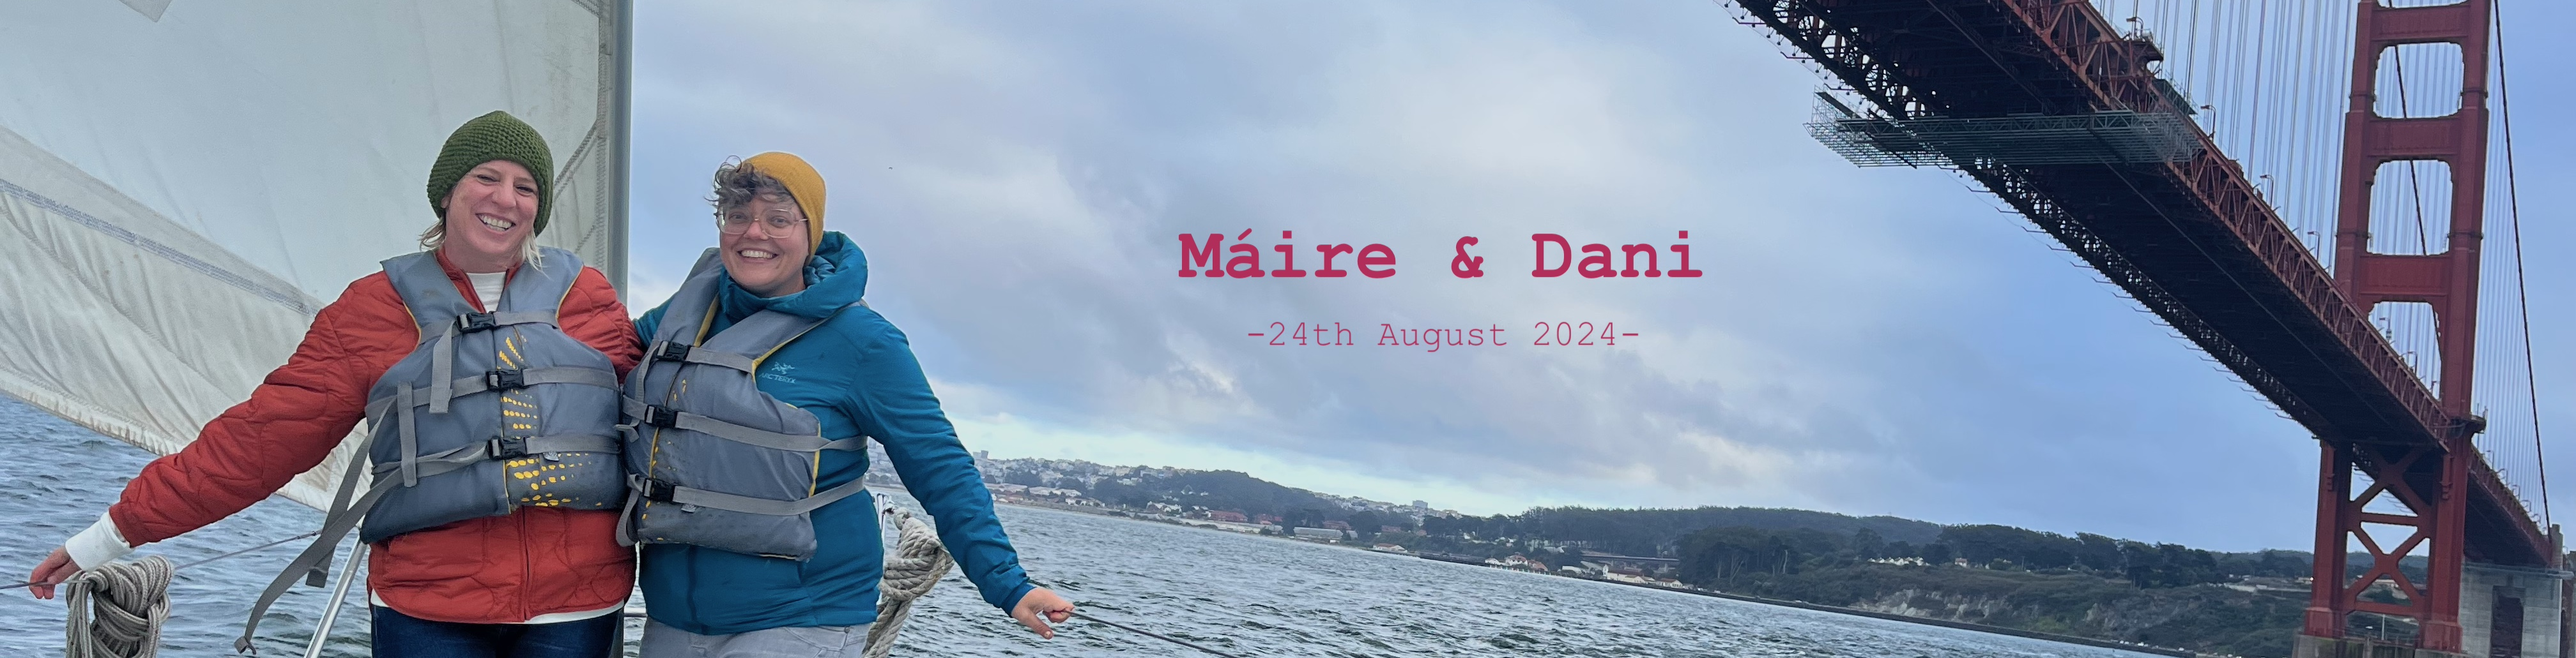
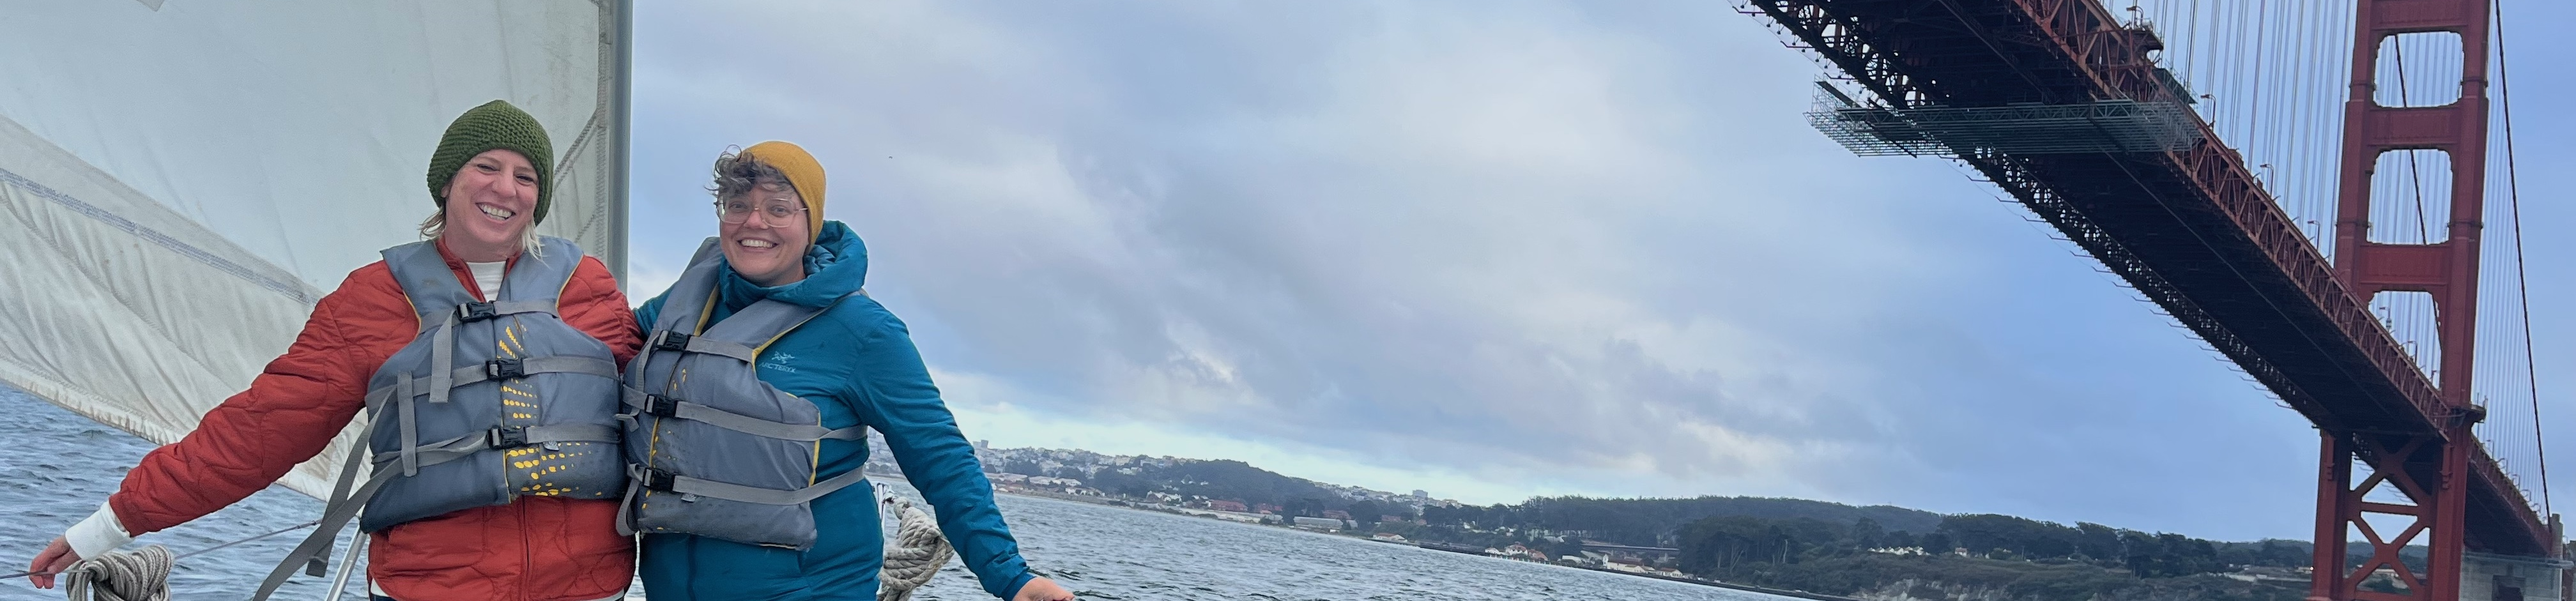
about

diff --git a/about.html b/about.html
@@ -27,35 +27,24 @@
    <div class="container">
    <div class="blurb">
 
+
    	<h2><center>Schedule of Events</h2></center>
 
-
    	<p align="justify"> We are celebrating at Branch House in Calistoga, CA on Saturday August 24, 2024. Located on Diamond Mountain, the venue overlooks Napa Valley and is surrounded by some of the world's finest vineyards. This picturesque setting provides a breathtaking backdrop for our special day.</p>
-
 			
-      <h3><center>Shuttles - starting 1:30pm</h3></center>
+ 
+      <p align="justify"> <b> &#128652 Shuttles - starting 1:30pm</b> <br>We will have buses bringing people to Branch House from Santa Rosa and Calistoga. Buses will depart from Santa Rosa at the Flamingo Resort. In Calistoga the shuttles will pick up at Cal Mart. Please let us know in your RSVP if you are planning getting on the bus either in Santa Rosa or Calistoga so we can assign you a seat and departure time. There is no parking at the venue directly, however, you can have a rideshare drop you off.</p>
 
-      <p align="justify"> We will have buses bringing people to Branch House from Santa Rosa and Calistoga. Buses will depart from Santa Rosa at the Flamingo Resort. In Calistoga the shuttles will pick up at Cal Mart. Please let us know in your RSVP if you are planning getting on the bus either in Santa Rosa or Calistoga so we can assign you a seat and departure time. There is no parking at the venue directly, however, you can have a rideshare drop you off.</p>
+      <p align="justify"> <b> &#127903 Welcome - starting at 2pm</b> <br>Enjoy the time at Branch House, catch up with friends and make new friends while everyone is getting in. We'll have some music and refreshing beverages for you while you enjoy the views and take pictures.</p>
 
-      <h3><center>Welcome Drinks - starting at 2pm</h3></center>
+      <p align="justify"> <b> &#128081 Ceremony - 3:00 to 3:30pm</b> <br>The ceremony will be taking place in a little theater in the woods. It is only a short walk to get there. There is no reserved seating, you sit anywhere you want. Our dear friend Franco will lead us through a ceremony that celebrates our love and commitment to each other. Join us as we exchange vows and begin our new chapter together - we can't wait to share this special moment with you!</p>
 
-      <p align="justify"> Enjoy the time at Branch House with some welcome drinks and catch up with friends and make new friends while everyone is getting in. We'll have some music for you while you enjoy the views and take pictures.</p>
-
-      <h3><center>Ceremony - 3:00 to 3:30pm</h3></center>
-
-      <p align="justify"> The ceremony will be taking place in a little theater in the woods. It is only a short walk to get there. There is no reserved seating, you sit anywhere you want. Our dear friend Franco will lead us through a ceremony that celebrates our love and commitment to each other. Join us as we exchange vows and begin our new chapter together - we can't wait to share this special moment with you!</p>
-
-      <h3><center>Cocktail Hour - 3:30 to 5:00pm</h3></center>
-
-      <p align="justify"> Join us for a relaxing and social hour of mingling, sipping, and savoring! Our cocktail hour will feature refreshing drinks, delectable appetizers, and easy listening tunes to set the tone for a wonderful evening. Take a stroll around the grounds, catch up with old friends, or make some new ones. Feel free to challenge your friends to a game of giant Jenga - we'll provide the yard games and the fun! This is the perfect opportunity to unwind and enjoy the company of loved ones before the main celebration begins. Cheers!</p>    
+      <p align="justify"> <b> &#127864 Cocktail Hour - 3:30 to 5:00pm</b> <br>Join us for a relaxing and social hour of mingling, sipping, and savoring! Our cocktail hour will feature refreshing drinks, delectable appetizers, and easy listening tunes to set the tone for a wonderful evening. Take a stroll around the grounds, catch up with old friends, or make some new ones. Feel free to challenge your friends to a game of giant Jenga - we'll provide the yard games and the fun! This is the perfect opportunity to unwind and enjoy the company of loved ones before the main celebration begins. Cheers!</p>    
       
-      <h3><center>Reception - 5:00 to 10:30pm</h3></center>
-
-      <p align="justify"> Our reception will feature a sit-down dinner, prepared by local vendors, offering a diverse range of culinary delights to cater to every taste. The perfect accompaniment to your meal will be a selection of wines from the area. As the night unfolds, we'll open the dance floor, inviting you to let loose and celebrate with us under the stars. Get ready for an evening of joy, laughter, and unforgettable memories!</p>    
+      <p align="justify"> <b> &#127881 Reception - 5:00 to 10:30pm</b> <br>Our reception will feature a sit-down dinner, prepared by local vendors, offering a diverse range of culinary delights to cater to every taste. The perfect accompaniment to your meal will be a selection of wines from the area. As the night unfolds, we'll open the dance floor, inviting you to let loose and celebrate with us under the stars. Get ready for an evening of joy, laughter, and unforgettable memories!</p>    
       
-      <h3><center>Shuttles - starting at 9pm</h3></center>
-
-      <p align="justify"> Buses will be available again starting at 9:00pm to bring people back to Calistoga or Santa Rosa. The music will stop at 10:00pm and the last bus will leave at 11:00pm.</p>        
+      <p align="justify"> <b> &#128281 Shuttles - starting at 8pm</b> <br>Buses will be available again starting at 8:00pm to bring people back to Calistoga or Santa Rosa.</p>   
+     <br>   <br>  <br>    
 
 	    		</div><!-- /.blurb -->
 		</div><!-- /.container -->

diff --git a/style.css b/style.css
@@ -1,5 +1,5 @@
 body {
-    margin: 60px auto;
+    margin: 0;
     width: 100%;
     font-family:'Courier New', monospace;
 }
@@ -9,46 +9,66 @@ nav ul, footer ul {
     list-style: none;
     font-weight: bold;
     text-align: right;
-    color: #6f63a4;
+    color: #53515E;
 }
 nav ul li, footer ul li {
     display: inline;
     margin-right: 10px;
-    color: #6f63a4;
+    color: #CACBD7;
 }
 a {
     text-decoration: none;
-    color: #6f63a4;
+    color: #f6006e;
 }
 a:hover {
     text-decoration: underline;
-    color: #f6006e;
+    color: #CACBD7;
 }
 h1 {
     font-size: 3em;
     font-family:'Courier New', monospace;
+    color: #53515E;
+    margin-right: 250px; 
+    margin-left: 250px;
 }
 
 h2 {
     font-size: 2em;
     font-family:'Courier New', monospace;
+    color: #53515E;
+    margin-right: 250px; 
+    margin-left: 250px;
 }
 
 h3 {
     font-size: 1.5em;
     font-family:'Courier New', monospace;
+    color: #53515E;
+    margin-right: 250px; 
+    margin-left: 250px;
+    margin-bottom: 0;
+    text-align: left;
+    padding: 0;
 }
 
 p {
-    font-size: 1.2em;
-    line-height: 1.4em;
-    color: #333;
-    margin-right: 300px; 
-    margin-left: 300px;
+    font-size: 1.1em;
+    line-height: 1.3em;
+    color: #53515E;
+    margin-right: 250px; 
+    margin-left: 250px;
+    padding:0;
 }
+
 footer {
-    border-top: 1px solid #d5d5d5;
+    border-top: 0px solid #d5d5d5;
     font-size: .8em;
+    height: 40px;
+    width: 100%;
+    align-items: right;
+    position: fixed;
+    bottom: 0;
+    background: #CACBD7;
 }
 
 ul.posts { 
@@ -71,4 +91,23 @@ img {
 
 .main-header {
   text-align: center;
+  margin-top: 0; 
+  padding-top: 0; 
 }
+
+.container {
+  position: relative;
+  text-align: center;
+  color: white;
+}
+
+.centered {
+  position: absolute;
+  top: 50%;
+  left: 58%;
+  transform: translate(-50%, -50%);
+  font-size: 2.5em;
+  font-family:'Courier New', monospace;
+  color: #f6006e;
+}
+

diff --git a/index.html b/index.html
@@ -18,12 +18,15 @@
 		</nav>
 
 	<header class="main-header" role="banner">
-  	<img src="boat.jpg" alt="Banner Image"/>
+  <div class="container">
+  <img src="boat.jpg" alt="Snow" style="width:100%;">
+  <div class="centered"><b>Máire & Dani</b> <br>-24th August 2024-</div>
+</div>
 	</header>
 		
 		<div class="container">
     		<div class="blurb">
-			
+			<br>
         		<h2><center>Join us on our biggest adventure yet!</h2></center>
 
 				<p style='text-align: center'>Our wedding is on <b>Saturday 24th August 2024</b>, in Calistoga, CA. 
@@ -34,16 +37,15 @@
 
 
 				<p style='text-align: center'>
-				We'll keep this website updated with details, and put photos up here afterwards. So have fun, take a look around and don’t forget to RSVP!</p> 
+				We'll keep this website updated with details, and put photos up here afterwards. So have fun, take a look around and don’t forget to <a href="https://docs.google.com/forms/d/e/1FAIpQLSdgd52p6PiCnaj-Os9nkyqfpyzZujqIeuj6fNNPbMv4W6L_yg/viewform">RSVP</a>!</p> 
 
 
     		</div><!-- /.blurb -->
 		</div><!-- /.container -->
 		<footer>
-    		<ul>
-        		<li><a href="mailto:daniela.hochfellner@gmail.com">email</a></li>
-        		<li><a href="https://github.com/frnillson/PBAM">github.com/frnillson/PBAM</a></li>
-			</ul>
+			<ul>	
+    		<b> &copy Máire&Dani-2024 </b>
+    		</ul>
 		</footer>
 	</body>
 </html>

diff --git a/registration.html b/registration.html
@@ -33,7 +33,7 @@
 	
 	<p align="justify"> Please kindly RSVP by July 31th, 2024 to let us know if you can join us! We're thrilled to share this special day with you, but we have limited space available. Your prompt response will help us ensure an accurate headcount for catering and arrangements. We appreciate your thoughtful consideration in responding, as it will greatly assist us in making this event truly unforgettable for everyone involved.</p>
 
-	<p align="justify"> Please complete this <a href="https://docs.google.com/forms/d/e/1FAIpQLSdgd52p6PiCnaj-Os9nkyqfpyzZujqIeuj6fNNPbMv4W6L_yg/viewform">form</a>form at your earliest convenience.</p>
+	<p align="justify"> Please complete this <a href="https://docs.google.com/forms/d/e/1FAIpQLSdgd52p6PiCnaj-Os9nkyqfpyzZujqIeuj6fNNPbMv4W6L_yg/viewform">form</a> at your earliest convenience.</p>
 
 		<footer>
     			<ul>
